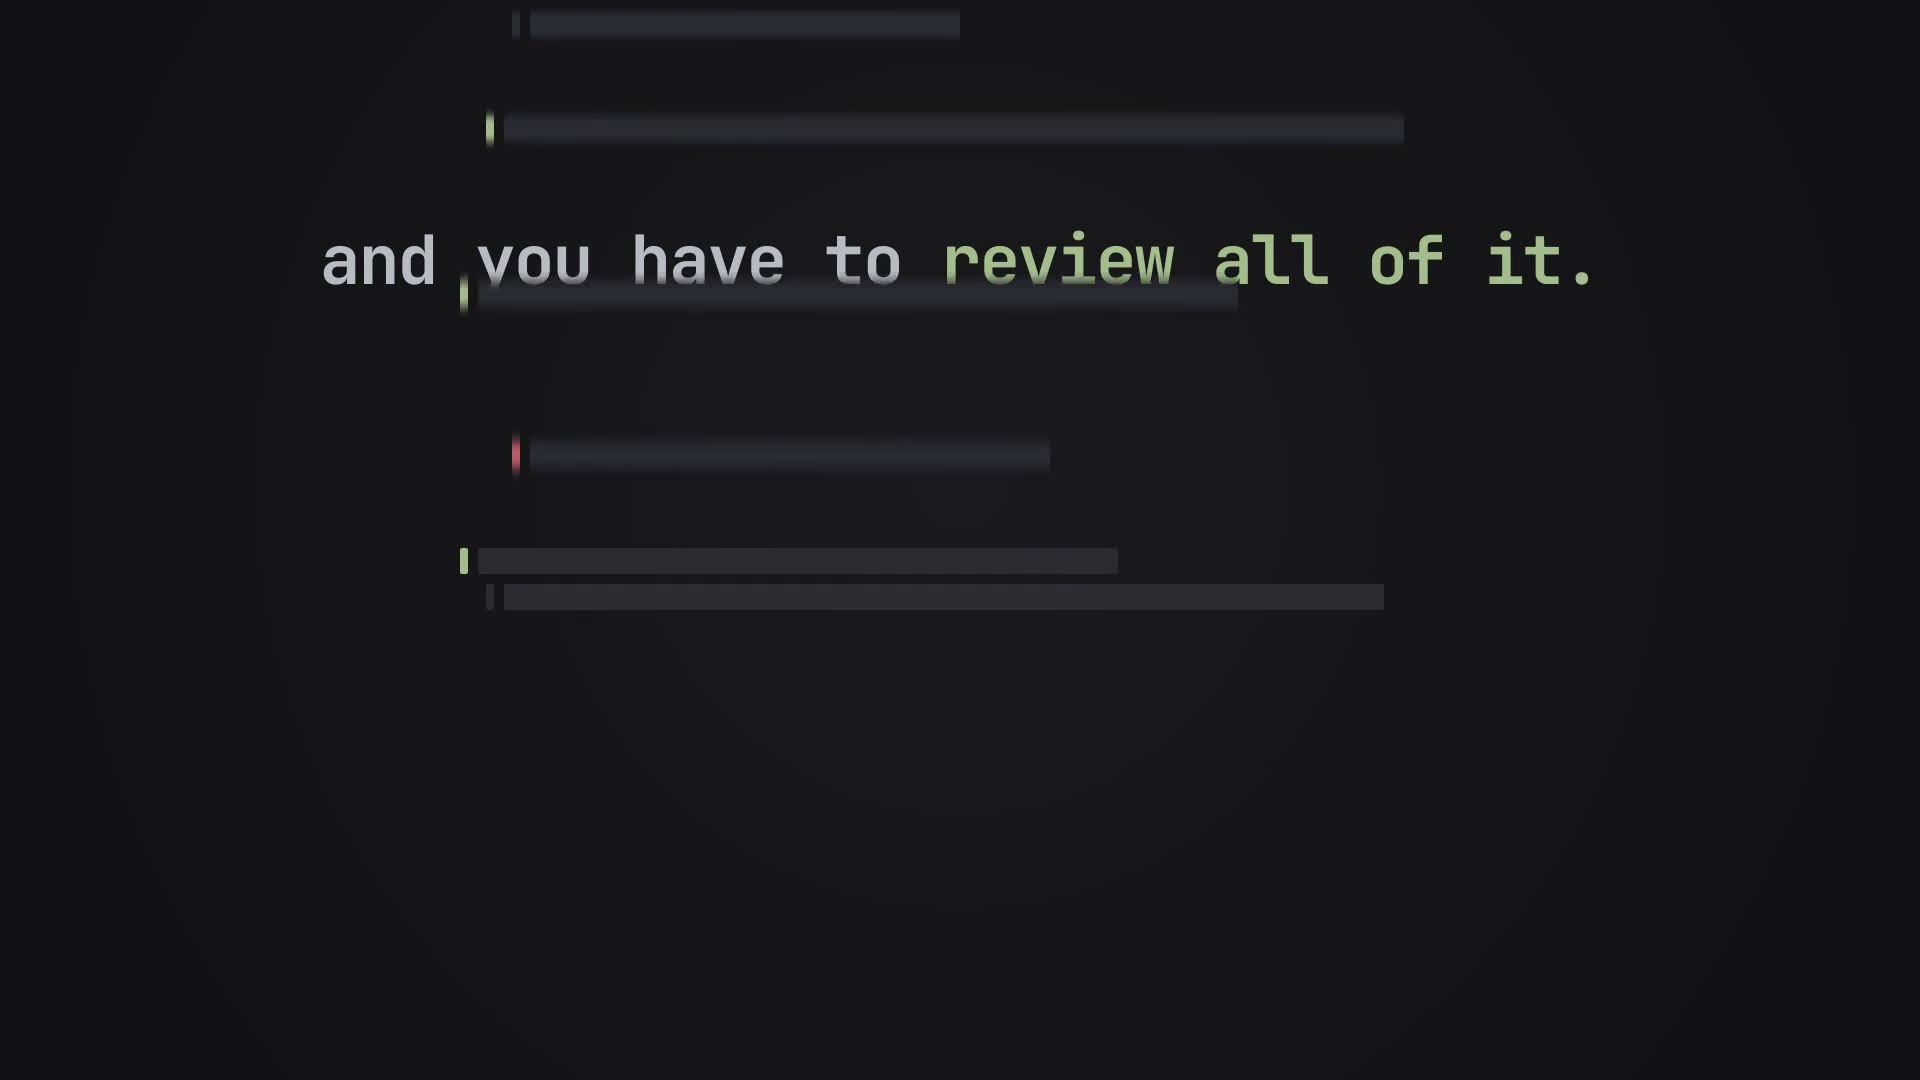
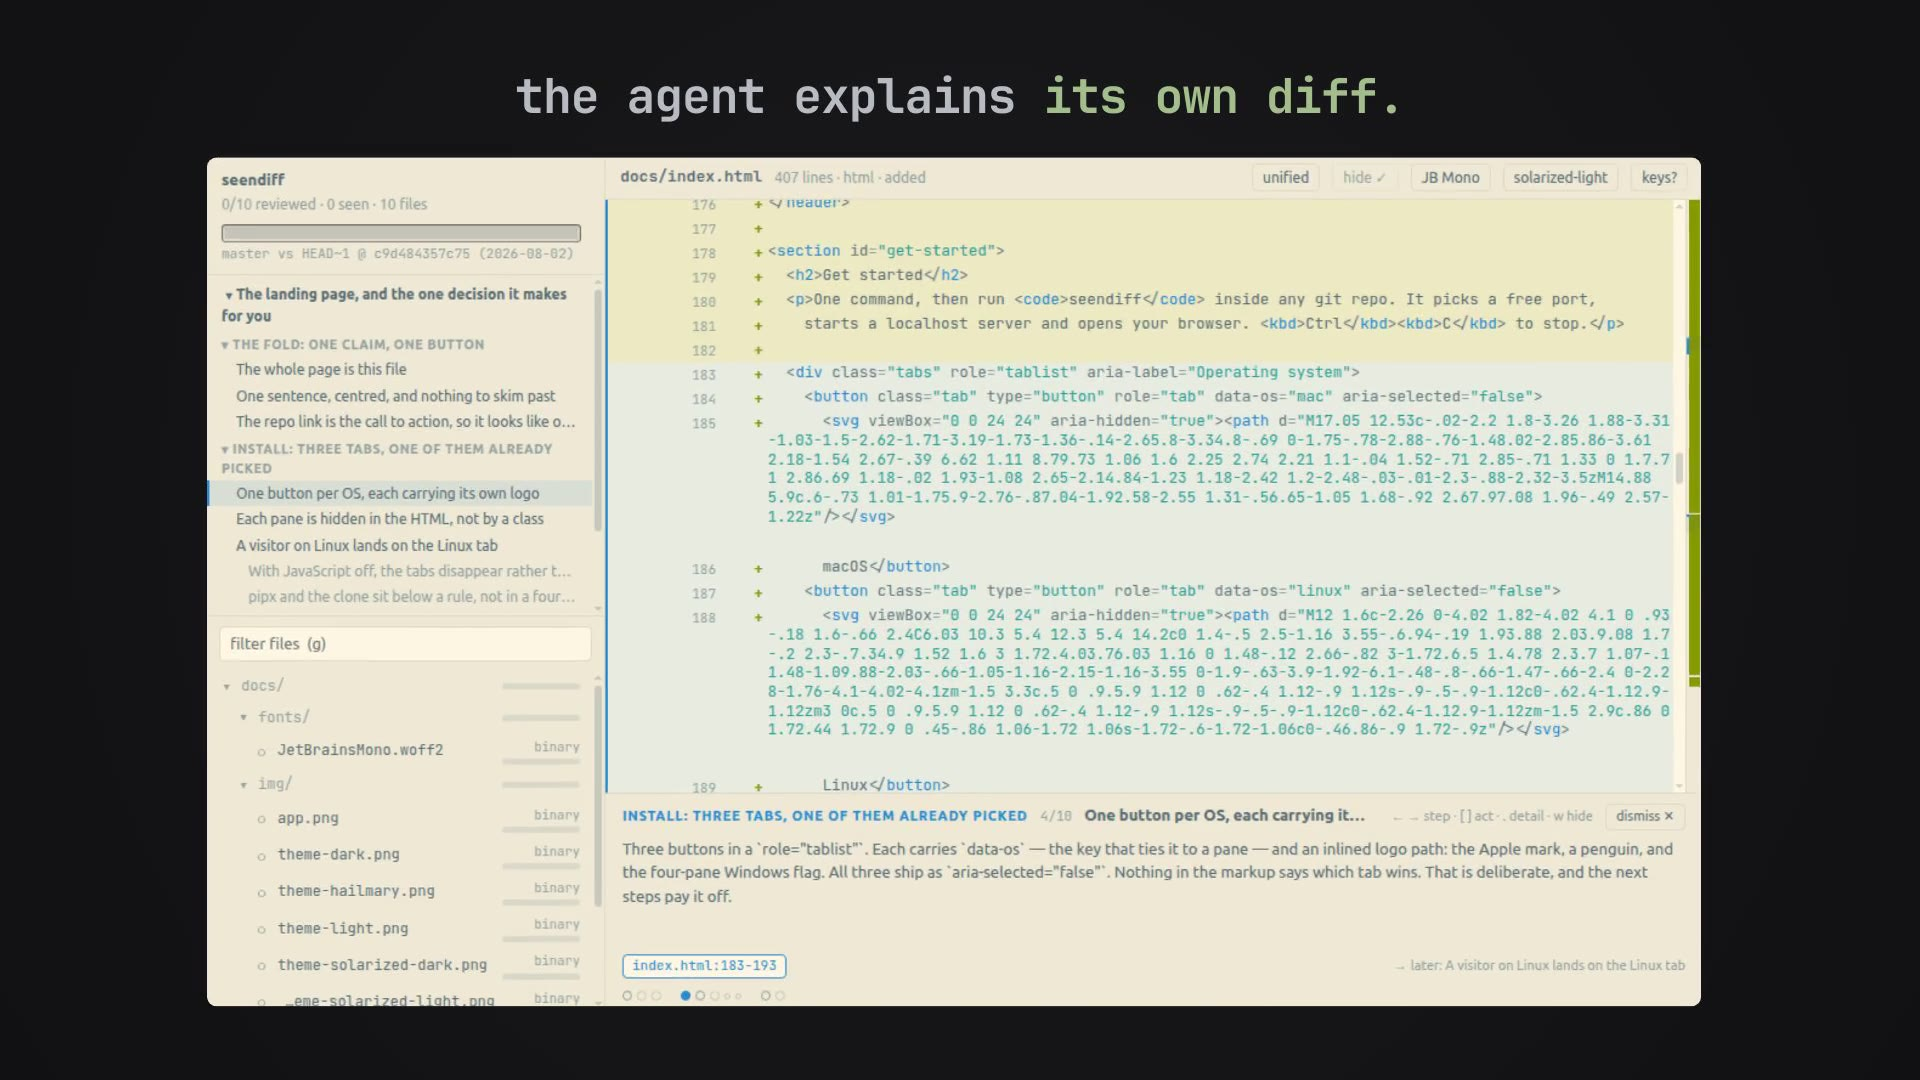
Put the demo at the top of the README, cut the prose further
GitHub strips <video> from rendered markdown, so the README embed showed
nothing. It now leads with a poster frame that links to the file, which
opens in GitHub's own player, sitting in the centred block under the
seendiff.com link.

The poster is a frame that shows the actual UI rather than a title card,
with a play badge composited on so it doesn't read as a screenshot. The
site keeps the clean frame, since the hero autoplays.

Prose down another 40 lines: install collapses to the two one-liners,
search and themes lose their footnotes, and the architecture notes merge
blocks-and-sections into one paragraph.

diff --git a/README.md b/README.md
@@ -13,11 +13,13 @@ View large diffs, while keeping track of what is seen and reviewed.
 
 ### [seendiff.com](https://seendiff.com/)
 
+[![Watch seendiff review a diff](docs/img/seendiff-poster-play.jpg)](https://github.com/acme-dot-bot/seendiff/raw/main/docs/img/seendiff.mp4)
+
+**[▶ Watch the 40-second demo](https://github.com/acme-dot-bot/seendiff/raw/main/docs/img/seendiff.mp4)**
+
 </div>
 
 <br>
-
-<video src="https://github.com/acme-dot-bot/seendiff/raw/main/docs/img/seendiff.mp4" poster="https://github.com/acme-dot-bot/seendiff/raw/main/docs/img/seendiff-poster.jpg" controls muted loop playsinline width="100%"></video>
 
 Your branch's full diff against `origin/master`, every changed file shown **whole**
 rather than as hunk fragments. Review state survives closing the window, and a rebase.
@@ -26,20 +28,11 @@ Not a merge tool: no editing, no conflict resolution, no comments. It's a reader
 
 ## Install
 
-You need **Python ≥ 3.10** and **git**. You're installing one thing: a CLI named
-`seendiff`, which then runs from any directory, in a fresh shell, with no virtualenv
-activated and no path prefix.
-
-With [uv](https://docs.astral.sh/uv/) — it brings its own Python:
+Needs **Python ≥ 3.10** and **git**. You're installing one CLI, `seendiff`, which then
+runs from any directory in a fresh shell — no virtualenv, no path prefix.
 
 ```bash
-curl -LsSf https://astral.sh/uv/install.sh | sh
-uv tool install git+https://github.com/acme-dot-bot/seendiff
-```
-
-With pipx:
-
-```bash
+uv tool install git+https://github.com/acme-dot-bot/seendiff     # or:
 pipx install git+https://github.com/acme-dot-bot/seendiff
 ```
 
@@ -58,9 +51,8 @@ Or hand it to your coding agent:
 > directory in a fresh shell, with no virtualenv activated and no path prefix.
 
 Four dependencies: FastAPI, uvicorn, `unidiff`, Pygments. Nothing to build, no config
-file, no daemon. State lands in `~/.local/state/seendiff/state.db` (pruned after 60
-days), rendered files in `~/.cache/seendiff/` (30 days). Nothing else is written outside
-the repo.
+file, no daemon. State lives in `~/.local/state/seendiff/` (pruned after 60 days) and
+`~/.cache/seendiff/` (30 days); nothing else is written outside the repo.
 
 ## Run it
 
@@ -75,9 +67,8 @@ seendiff --port 8700     # a fixed port instead of a free one
 
 It picks a free port, starts a localhost server and opens your browser. `Ctrl-C` to stop.
 
-Also: `--fetch` (git fetch first — never implicit), `--clear` (drop this branch's review
-state), `--no-browser`, `--no-highlight`, `--no-auto-seen`, and
-`--section-min` / `--section-max` to resize review sections.
+Also `--fetch` (never implicit), `--clear` (drop this branch's review state),
+`--no-browser`, `--no-highlight`, `--no-auto-seen`, `--section-min` / `--section-max`.
 
 ![seendiff reviewing its own diff: the sidebar reports 16 of 52 blocks reviewed across 7 files with a per-file progress bar, and the main pane shows a unified, syntax-highlighted diff of git.py](docs/img/app.png)
 
@@ -110,63 +101,49 @@ as you type, keeping their syntax colour, and ticked on the minimap.
 ![search](docs/img/search.png)
 
 Queries are literal and smart-cased — all-lowercase matches any case, any capital makes it
-case-sensitive. `.*` toggles regex. Removed lines are searchable too.
-
-The browser's own find can't help here: the code pane is virtualized, so only the rows on
-screen exist in the DOM. Whole-change search runs server-side via `/api/search`.
+case-sensitive. `.*` toggles regex. Removed lines are searchable too. The browser's own
+find can't help: the code pane is virtualized, so only on-screen rows exist in the DOM.
 
 ## Themes
 
-`t` cycles six — **light**, **dark**, **solarized-light**, **solarized-dark**, **space**
-and **hailmary** — each with a matching Pygments palette, so syntax colours change with
-the chrome. Theme, font, layout, sidebar width and collapsed folders persist
-**server-side**: every run gets a fresh port, and `localStorage` is scoped per origin, so
-it alone would forget.
+`t` cycles six — **light**, **dark**, **solarized-light**, **solarized-dark**, **space**,
+**hailmary** — each with a matching Pygments palette, so syntax colours change with the
+chrome. Theme, font, layout and sidebar width persist server-side, because every run gets
+a fresh port and `localStorage` is scoped per origin.
 
 ## Code walkthrough skill
 
-**AI + Human > AI or Human.** AI is a super-coder, but lacks the context to make the
-tradeoffs that drive your design decisions. Any sane codebase wants a pair of trained
-human eyes on it — so seendiff ships with a walkthrough mode, where a coding agent
-explains itself step by step, on the diff.
+**AI + Human > AI or Human.** So seendiff ships with a walkthrough mode, where a coding
+agent explains its change step by step, on the diff.
+
+![walkthrough](docs/img/walkthrough.png)
 
 Ask your coding agent to install the skill, once:
 
 > Install the seendiff skill for me, from https://github.com/acme-dot-bot/seendiff — so
 > you can open diffs and write walkthroughs for me in any repo.
 
-It's a symlink, if you'd rather do it yourself:
+It's a symlink, if you'd rather: `ln -s "$(pwd)/skills/seendiff" ~/.claude/skills/seendiff`
 
-```bash
-ln -s "$(pwd)/skills/seendiff" ~/.claude/skills/seendiff
-```
-
-Then, in any repo, ask for the walkthrough you want — *"explain this PR using a code
-walkthrough"*.
-
-![walkthrough](docs/img/walkthrough.png)
-
-Steps are grouped into acts, so a big change reads as a few chapters instead of eighty
-bullet points. `←`/`→` step, `[`/`]` jump acts, `.` folds the detail away, `w` hides the
-bar, **dismiss** returns to the plain diff.
+Then, in any repo, ask for what you want — *"explain this PR using a code walkthrough"*.
+Steps group into acts, so a big change reads as a few chapters. `←`/`→` step, `[`/`]`
+jump acts, `.` folds the detail, `w` hides the bar, **dismiss** returns to the plain diff.
 
 ```bash
 seendiff --walkthrough .git/seendiff-walkthrough.json   # play it back
 seendiff --check-walkthrough path/to/wt.json            # validate, exit 0/1
 ```
 
-The script is JSON — format and rules in [`CODEWALKTHROUGH.md`](CODEWALKTHROUGH.md), with
-a [worked example](examples/seendiff-review-state.json). Every line reference is checked
-against the real diff before anything renders, so a stale one fails at load instead of
-scrolling you somewhere wrong.
-
-The file may be **empty** (`{}`) — seendiff then opens as a plain diff tool and watches
-it, so an agent can write a script later and every open tab picks it up within seconds.
+The script is JSON — format in [`CODEWALKTHROUGH.md`](CODEWALKTHROUGH.md), with a
+[worked example](examples/seendiff-review-state.json). Every line reference is checked
+against the real diff before rendering, so a stale one fails at load instead of scrolling
+you somewhere wrong. An empty file (`{}`) is fine: seendiff opens as a plain diff tool and
+watches it, so an agent can write the script later and open tabs pick it up in seconds.
 
 ## Architecture
 
-**A Python HTTP server, one hand-written HTML file, and SQLite.** That's the whole stack.
-~4,000 lines of shipped code, plus ~460 of tests.
+**A Python HTTP server, one hand-written HTML file, and SQLite.** ~4,000 lines shipped,
+plus ~460 of tests.
 
 ```
 git ──► git.py ──────► server.py ──► static/index.html
@@ -178,41 +155,30 @@ git ──► git.py ──────► server.py ──► static/index.html
 
 | file | lines | what it does |
 |---|---|---|
-| `static/index.html` | 2326 | The entire UI: markup, CSS and vanilla JS in one file. Virtual scroller, side-by-side and unified views, canvas minimap, search, six themes, walkthrough player. |
-| `server.py` | 526 | FastAPI on uvicorn, bound to `127.0.0.1`. Holds the diff in memory, recomputes only when HEAD moves, disk-caches rendered files. |
-| `git.py` | 446 | Runs `git diff`, parses it with `unidiff`, groups hunks into **blocks**, and reconstructs each file's *whole* post-image with every line tagged added / removed / context. |
+| `static/index.html` | 2326 | The whole UI in one file: virtual scroller, side-by-side and unified views, canvas minimap, search, themes, walkthrough player. |
+| `server.py` | 526 | FastAPI on uvicorn, bound to `127.0.0.1`. Diff in memory, recomputed only when HEAD moves. |
+| `git.py` | 446 | Runs `git diff`, parses with `unidiff`, groups hunks into **blocks**, rebuilds each file's whole post-image. |
 | `walkthrough.py` | 348 | Loads and validates walkthrough scripts against the real diff. |
-| `store.py` | 126 | SQLite: review state and UI preferences. Two tables, no ORM, no migrations. |
-| `cli.py` | 117 | argparse → pick a free port → open a browser → `uvicorn.run`. |
-| `highlight.py` | 109 | Pygments tokenization per line, with bail-outs for minified or enormous files. |
+| `store.py` | 126 | SQLite: review state and preferences. Two tables, no ORM, no migrations. |
+| `cli.py` | 117 | argparse → free port → browser → `uvicorn.run`. |
+| `highlight.py` | 109 | Pygments per line, with bail-outs for minified or enormous files. |
 
-A few decisions worth knowing:
+**Blocks, not hunks.** Hunk boundaries move with the context setting. A block is a maximal
+run of adjacent changed lines with a content-derived `hunk_id`, so review state survives a
+rebase. Blocks over `--section-max` lines (48) split into sections of at least
+`--section-min` (12), cut at a seam — removed-to-added turn, blank line, unindented
+declaration — so editing one section costs only that section's state.
 
-**Blocks, not hunks.** A hunk is a diff-format artifact — its boundaries move with the
-context setting. A block is a maximal run of adjacent changed lines, with a stable
-`hunk_id` derived from its content, so review state survives a rebase.
-
-**Sections, so a rewrite isn't one checkbox.** A block over `--section-max` changed lines
-(48) is cut into sections of at least `--section-min` (12), preferring a seam: the turn
-from removed to added lines, a blank line, or an unindented declaration. No parser, no
-language table. Each section keeps a content-derived id, so editing one costs you only
-that section's review state.
+**Scope is symbolic.** State is keyed on `repo | base_ref | branch`, not commit SHAs.
+Amend, rebase or reword and it's still there.
 
 **The bar is weighted by lines, not blocks** — a two-line fix and a two-hundred-line
-rewrite are both one block. The counter still reads in blocks (`12/44 reviewed`), because
-that's what you act on.
-
-**Scope is symbolic.** State is keyed on `repo | base_ref | branch`, *not* commit SHAs.
-Amend, rebase or reword and your review state is still there. The diff itself is immutable
-per (merge-base, HEAD): computed once, cached in memory.
-
-**The frontend is a virtual scroller.** Files run to tens of thousands of lines, so only
-visible rows are in the DOM. Row geometry comes from real glyph metrics, remeasured once
-webfonts land — which is also what makes the minimap line up.
+rewrite are both one block. The counter still reads in blocks, because that's what you
+act on.
 
 **Nothing leaves the machine.** No telemetry, no accounts. The server binds 127.0.0.1 and
-rejects any `Host` header that isn't localhost, so another tab can't reach your source
-tree via DNS rebinding. `git fetch` runs only when you pass `--fetch`.
+rejects any `Host` that isn't localhost, so another tab can't reach your source tree via
+DNS rebinding. `git fetch` runs only with `--fetch`.
 
 [`PLAN.md`](PLAN.md) is the original build brief — motivation, rejected alternatives, and
 the reasoning behind each locked decision.
@@ -224,20 +190,16 @@ python3 -m venv .venv && .venv/bin/pip install -e . pytest
 .venv/bin/python -m pytest tests/ -q
 ```
 
-35 tests: the walkthrough validator, the search endpoint, preference storage, and the
-search-match renderer — that last one runs under `node` (skipped if absent) and pulls the
-functions straight out of `index.html`, so it can't drift from what ships.
+35 tests. The search-match renderer test runs under `node` (skipped if absent) and pulls
+the functions straight out of `index.html`, so it can't drift from what ships.
 
 ## Contributing
 
-**Bugs** — file an issue with the details that make it reproducible: OS, environment, the
-exact failure, and any logs. **Features** — submit them in the style of prompts to an LLM.
-**Customizations** — feel free to fork.
+**Bugs** — file an issue with what makes it reproducible: OS, environment, the exact
+failure, logs. **Features** — write them as prompts to an LLM. **Customizations** — fork it.
 
 ## License
 
-[MIT](LICENSE).
-
-Bundles two fonts under their own terms:
-[JetBrains Mono](https://github.com/JetBrains/JetBrainsMono) (Apache-2.0) and
-[Ubuntu Sans Mono](https://github.com/canonical/Ubuntu-Sans-fonts) (UFL-1.0).
+[MIT](LICENSE). Bundles [JetBrains Mono](https://github.com/JetBrains/JetBrainsMono)
+(Apache-2.0) and [Ubuntu Sans Mono](https://github.com/canonical/Ubuntu-Sans-fonts)
+(UFL-1.0) under their own terms.
